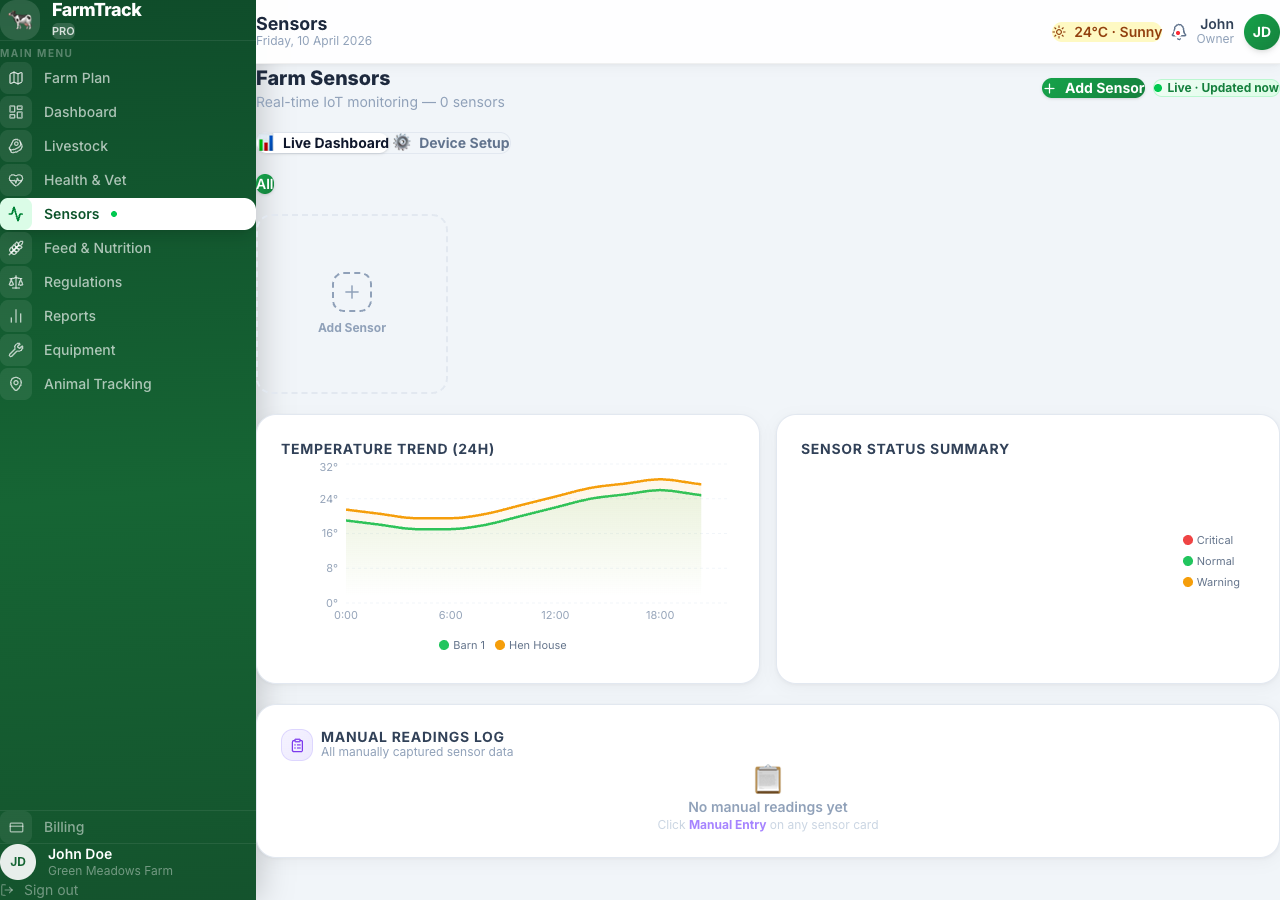
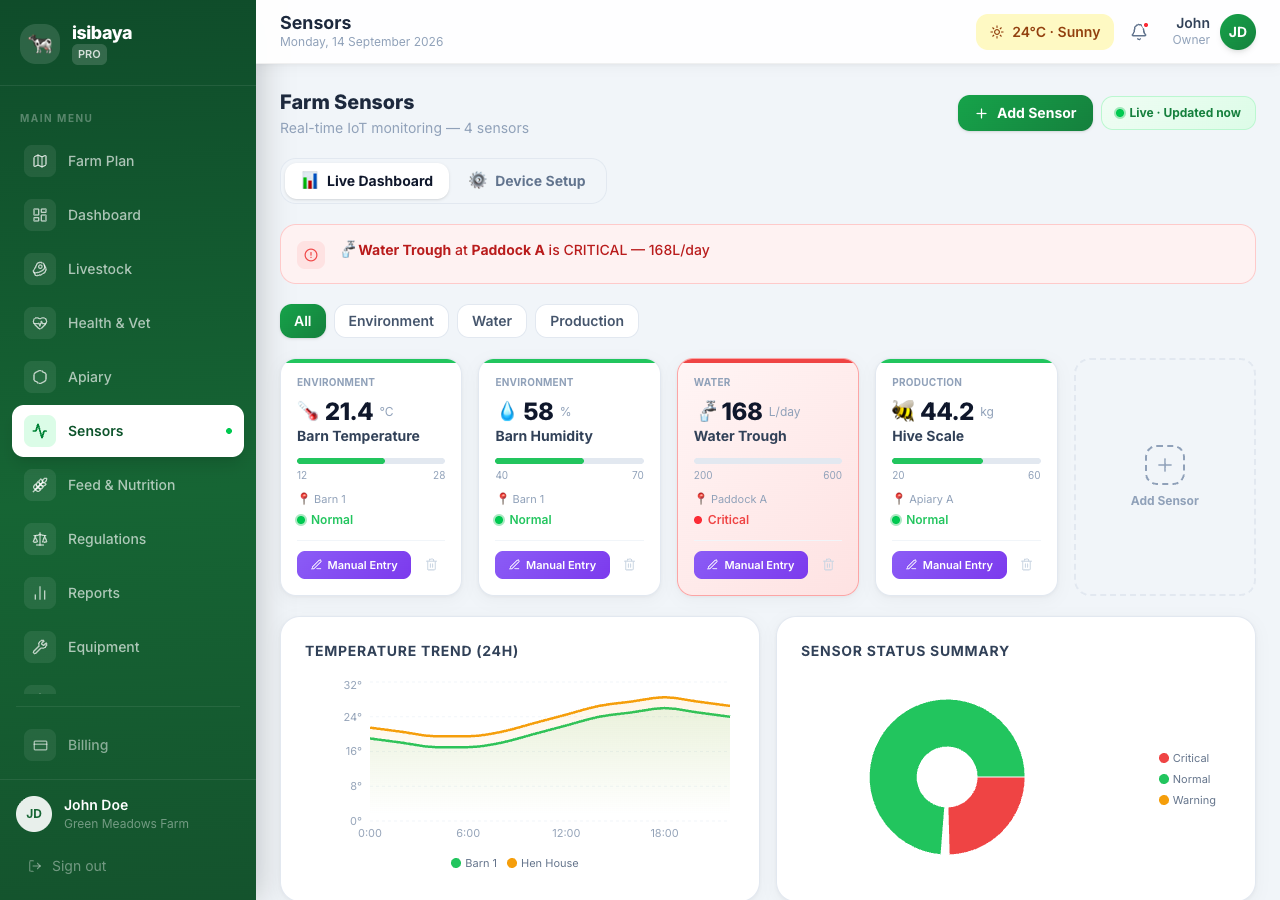
docs: rebrand user guide to isibaya and regenerate screenshots
The guide under public/docs survived the earlier docs removal (only the
root docs/ folder went), so it was still live at /docs carrying FarmTrack
branding from two renames ago and $500/month pricing.

- Rebrand throughout and correct the price to R1,800/month.
- Regenerate all 13 screenshots from the current app, captured through
  the real sign-in flow against netlify dev with a populated South
  African farm — Nguni and Bonsmara cattle, Dorper and Meatmaster sheep,
  Kalahari Red goats and three hives.
- Add a 14th screenshot and a full Apiary section: the entire bee
  feature set was undocumented. Covers hives as colonies, inspections,
  SA pests and diseases, AFB as a notifiable disease, harvests, colony
  events, the apiary roll-up and the capensis movement warning.
- Renumber sections and the contents grid to include Apiary (now 12).

diff --git a/public/docs/index.html b/public/docs/index.html
@@ -3,7 +3,7 @@
 <head>
   <meta charset="UTF-8" />
   <meta name="viewport" content="width=device-width, initial-scale=1.0" />
-  <title>FarmTrack — User Documentation</title>
+  <title>isibaya — User Documentation</title>
   <style>
     *, *::before, *::after { box-sizing: border-box; margin: 0; padding: 0; }
 
@@ -232,7 +232,7 @@
   <div class="sidebar-brand">
     <div class="brand-icon">🐄</div>
     <div>
-      <div class="brand-name">FarmTrack</div>
+      <div class="brand-name">isibaya</div>
       <div class="brand-sub">User Documentation</div>
     </div>
   </div>
@@ -242,6 +242,7 @@
     <li><a href="#farm-plan"><span class="nav-icon">🗺</span> Farm Plan</a></li>
     <li><a href="#livestock"><span class="nav-icon">🐄</span> Livestock</a></li>
     <li><a href="#health"><span class="nav-icon">❤</span> Health &amp; Vet</a></li>
+    <li><a href="#apiary"><span class="nav-icon">🐝</span> Apiary</a></li>
     <li><a href="#sensors"><span class="nav-icon">📡</span> Sensors</a></li>
     <li><a href="#feed"><span class="nav-icon">🌾</span> Feed &amp; Nutrition</a></li>
     <li><a href="#equipment"><span class="nav-icon">🔧</span> Equipment</a></li>
@@ -250,7 +251,7 @@
     <li><a href="#tracking"><span class="nav-icon">📍</span> Animal Tracking</a></li>
     <li><a href="#billing"><span class="nav-icon">💳</span> Billing</a></li>
   </ul>
-  <div class="sidebar-footer">FarmTrack Pro · v1.0</div>
+  <div class="sidebar-footer">isibaya Pro · v1.0</div>
 </nav>
 
 <!-- ═══════════════════════════════════ MAIN ═══════════════════════════════════ -->
@@ -259,10 +260,10 @@
   <!-- Hero -->
   <div class="hero">
     <div class="hero-tag">User Documentation · v1.0</div>
-    <h1>FarmTrack<br>User Guide</h1>
+    <h1>isibaya<br>User Guide</h1>
     <p>Everything you need to manage your farm — livestock records, health tracking, GPS monitoring, sensors, feed, equipment, and more — all in one place.</p>
     <div class="hero-meta">
-      <div class="hero-meta-item"><strong>11 Modules</strong>Complete feature set</div>
+      <div class="hero-meta-item"><strong>12 Modules</strong>Complete feature set</div>
       <div class="hero-meta-item"><strong>Real-time</strong>Live IoT sensor data</div>
       <div class="hero-meta-item"><strong>GPS Tracking</strong>Geofence alerts</div>
       <div class="hero-meta-item"><strong>14-day Trial</strong>Free to start</div>
@@ -279,13 +280,14 @@
         <a class="toc-item" href="#farm-plan"><span class="toc-num">2</span> Farm Plan</a>
         <a class="toc-item" href="#livestock"><span class="toc-num">3</span> Livestock</a>
         <a class="toc-item" href="#health"><span class="toc-num">4</span> Health &amp; Vet</a>
-        <a class="toc-item" href="#sensors"><span class="toc-num">5</span> Sensors</a>
-        <a class="toc-item" href="#feed"><span class="toc-num">6</span> Feed &amp; Nutrition</a>
-        <a class="toc-item" href="#equipment"><span class="toc-num">7</span> Equipment</a>
-        <a class="toc-item" href="#regulations"><span class="toc-num">8</span> Regulations</a>
-        <a class="toc-item" href="#reports"><span class="toc-num">9</span> Reports</a>
-        <a class="toc-item" href="#tracking"><span class="toc-num">10</span> Animal Tracking</a>
-        <a class="toc-item" href="#billing"><span class="toc-num">11</span> Billing</a>
+        <a class="toc-item" href="#apiary"><span class="toc-num">5</span> Apiary</a>
+        <a class="toc-item" href="#sensors"><span class="toc-num">6</span> Sensors</a>
+        <a class="toc-item" href="#feed"><span class="toc-num">7</span> Feed &amp; Nutrition</a>
+        <a class="toc-item" href="#equipment"><span class="toc-num">8</span> Equipment</a>
+        <a class="toc-item" href="#regulations"><span class="toc-num">9</span> Regulations</a>
+        <a class="toc-item" href="#reports"><span class="toc-num">10</span> Reports</a>
+        <a class="toc-item" href="#tracking"><span class="toc-num">11</span> Animal Tracking</a>
+        <a class="toc-item" href="#billing"><span class="toc-num">12</span> Billing</a>
       </div>
     </div>
 
@@ -333,19 +335,19 @@
 
       <h3 style="font-size:15px;font-weight:700;color:#1e293b;margin:28px 0 12px;">Login Screen</h3>
       <div class="screenshot-wrap">
-        <img src="screenshots/login.png" alt="FarmTrack Login" />
+        <img src="screenshots/login.png" alt="isibaya Login" />
       </div>
       <p class="screenshot-caption">The login screen — use demo credentials <strong>john@greenmeadows.farm / farm1234</strong> to explore the app.</p>
 
       <h3 style="font-size:15px;font-weight:700;color:#1e293b;margin:28px 0 12px;">Registration</h3>
       <div class="screenshot-wrap">
-        <img src="screenshots/register.png" alt="FarmTrack Registration" />
+        <img src="screenshots/register.png" alt="isibaya Registration" />
       </div>
       <p class="screenshot-caption">Create an account to start a 14-day free trial — no card required.</p>
 
       <h3 style="font-size:15px;font-weight:700;color:#1e293b;margin:28px 0 12px;">Dashboard</h3>
       <div class="screenshot-wrap">
-        <img src="screenshots/dashboard.png" alt="FarmTrack Dashboard" />
+        <img src="screenshots/dashboard.png" alt="isibaya Dashboard" />
       </div>
       <p class="screenshot-caption">The Dashboard gives an at-a-glance view of your herd health, sensor alerts, upcoming vet visits, and farm analytics.</p>
 
@@ -536,11 +538,86 @@
     <hr />
 
     <!-- ═══ 5. SENSORS ═══ -->
+    <section class="section" id="apiary">
+      <div class="section-header">
+        <div class="section-icon">🐝</div>
+        <div>
+          <div class="section-num">Section 5</div>
+          <div class="section-title">Apiary</div>
+          <div class="section-desc">Hive inspections, disease checks, harvests and colony events</div>
+        </div>
+      </div>
+
+      <div class="screenshot-wrap">
+        <img src="screenshots/apiary.png" alt="isibaya Apiary" />
+      </div>
+      <p class="screenshot-caption">Apiary — inspections, harvests, colony events and a per-apiary roll-up.</p>
+
+      <div class="features">
+        <div class="feature">
+          <div class="feature-dot"></div>
+          <div>
+            <div class="feature-title">Hives, not individual bees</div>
+            <div class="feature-desc">Bees are managed as colonies. Add hives under Livestock &rarr; Bee, where a record carries a hive ID, colony strength, queen status, race and marking colour. Use "Add hives" to create a whole apiary at once instead of one row at a time.</div>
+          </div>
+        </div>
+        <div class="feature">
+          <div class="feature-dot"></div>
+          <div>
+            <div class="feature-title">Inspections</div>
+            <div class="feature-desc">Record date, inspector, whether the queen was seen, brood pattern, stores, temperament and a Varroa count, plus the pests and diseases found.</div>
+          </div>
+        </div>
+        <div class="feature">
+          <div class="feature-dot"></div>
+          <div>
+            <div class="feature-title">South African pests &amp; diseases</div>
+            <div class="feature-desc">The picker covers what local apiaries actually see — Varroa, small hive beetle, wax moth, chalkbrood, Nosema, capensis laying workers and American / European foulbrood.</div>
+          </div>
+        </div>
+        <div class="feature">
+          <div class="feature-dot"></div>
+          <div>
+            <div class="feature-title">American foulbrood is notifiable</div>
+            <div class="feature-desc">Selecting AFB raises a warning: under the Control Measures relating to Honey-bees (R.858 of 2013) it must be reported to DALRRD, and affected hives and equipment may not be moved. A banner stays on the page while any AFB record stands.</div>
+          </div>
+        </div>
+        <div class="feature">
+          <div class="feature-dot"></div>
+          <div>
+            <div class="feature-title">Harvests</div>
+            <div class="feature-desc">Log honey, beeswax, propolis, pollen or royal jelly per hive with weight and frames pulled. Honey totals feed the Reports page, counting honey only so wax and propolis do not inflate the figure.</div>
+          </div>
+        </div>
+        <div class="feature">
+          <div class="feature-dot"></div>
+          <div>
+            <div class="feature-title">Colony events</div>
+            <div class="feature-desc">Track swarms, swarm catches, requeening, splits, combines, absconding, colony loss, treatments, feeding, supering and moves. Absconding matters here — <em>A. m. scutellata</em> absconds far more readily than European races.</div>
+          </div>
+        </div>
+        <div class="feature">
+          <div class="feature-dot"></div>
+          <div>
+            <div class="feature-title">Apiary roll-up</div>
+            <div class="feature-desc">The Apiaries tab groups hives by location and shows hive count, honey harvested, hives needing attention, colonies lost and the last inspection date. Hives with no location gather under "Unassigned".</div>
+          </div>
+        </div>
+        <div class="feature">
+          <div class="feature-dot"></div>
+          <div>
+            <div class="feature-title">Cape bees stay in the Cape</div>
+            <div class="feature-desc">Choosing the Cape (<em>A. m. capensis</em>) race warns about moving those colonies into <em>scutellata</em> areas, where capensis laying workers can collapse host colonies. Movement of infected colonies is restricted by law.</div>
+          </div>
+        </div>
+      </div>
+    </section>
+
     <section class="section" id="sensors">
       <div class="section-header">
         <div class="section-icon">📡</div>
         <div>
-          <div class="section-num">Section 5</div>
+          <div class="section-num">Section 6</div>
           <div class="section-title">Farm Sensors</div>
           <div class="section-desc">Real-time IoT monitoring across your farm</div>
         </div>
@@ -595,7 +672,7 @@
       <div class="section-header">
         <div class="section-icon">🌾</div>
         <div>
-          <div class="section-num">Section 6</div>
+          <div class="section-num">Section 7</div>
           <div class="section-title">Feed &amp; Nutrition</div>
           <div class="section-desc">Track feed types, stock levels, and per-head consumption</div>
         </div>
@@ -645,7 +722,7 @@
       <div class="section-header">
         <div class="section-icon">🔧</div>
         <div>
-          <div class="section-num">Section 7</div>
+          <div class="section-num">Section 8</div>
           <div class="section-title">Equipment &amp; Tickets</div>
           <div class="section-desc">Manage farm equipment and raise maintenance tickets</div>
         </div>
@@ -695,7 +772,7 @@
       <div class="section-header">
         <div class="section-icon">📋</div>
         <div>
-          <div class="section-num">Section 8</div>
+          <div class="section-num">Section 9</div>
           <div class="section-title">Regulations &amp; Compliance</div>
           <div class="section-desc">International livestock farming standards reference guide</div>
         </div>
@@ -750,7 +827,7 @@
       <div class="section-header">
         <div class="section-icon">📊</div>
         <div>
-          <div class="section-num">Section 9</div>
+          <div class="section-num">Section 10</div>
           <div class="section-title">Reports &amp; Analytics</div>
           <div class="section-desc">Farm performance insights and trend charts</div>
         </div>
@@ -800,7 +877,7 @@
       <div class="section-header">
         <div class="section-icon">📍</div>
         <div>
-          <div class="section-num">Section 10</div>
+          <div class="section-num">Section 11</div>
           <div class="section-title">Animal Tracking</div>
           <div class="section-desc">Live GPS map with geofence alerts for escaped animals</div>
         </div>
@@ -861,9 +938,9 @@
       <div class="section-header">
         <div class="section-icon">💳</div>
         <div>
-          <div class="section-num">Section 11</div>
+          <div class="section-num">Section 12</div>
           <div class="section-title">Billing &amp; Subscription</div>
-          <div class="section-desc">Manage your FarmTrack Pro subscription and payment method</div>
+          <div class="section-desc">Manage your isibaya Pro subscription and payment method</div>
         </div>
       </div>
 
@@ -876,8 +953,8 @@
         <div class="feature">
           <div class="feature-dot"></div>
           <div>
-            <div class="feature-title">FarmTrack Pro</div>
-            <div class="feature-desc">$500/month with monthly or annual billing. Includes unlimited livestock records, all species, IoT sensor dashboard, and email &amp; chat support.</div>
+            <div class="feature-title">isibaya Pro</div>
+            <div class="feature-desc">R1,800/month with monthly or annual billing. Includes unlimited livestock records, all species, IoT sensor dashboard, and email &amp; chat support.</div>
           </div>
         </div>
         <div class="feature">
@@ -914,7 +991,7 @@
     <!-- Footer -->
     <div style="text-align:center; padding:40px 0 20px; color:#94a3b8; font-size:13px;">
       <div style="font-size:32px; margin-bottom:12px;">🐄</div>
-      <div style="font-weight:800; color:#1e293b; font-size:16px; margin-bottom:6px;">FarmTrack Pro</div>
+      <div style="font-weight:800; color:#1e293b; font-size:16px; margin-bottom:6px;">isibaya Pro</div>
       <div>Livestock management for modern farms</div>
       <div style="margin-top:16px; font-size:11px;">Documentation v1.0 · Generated April 2026</div>
     </div>
